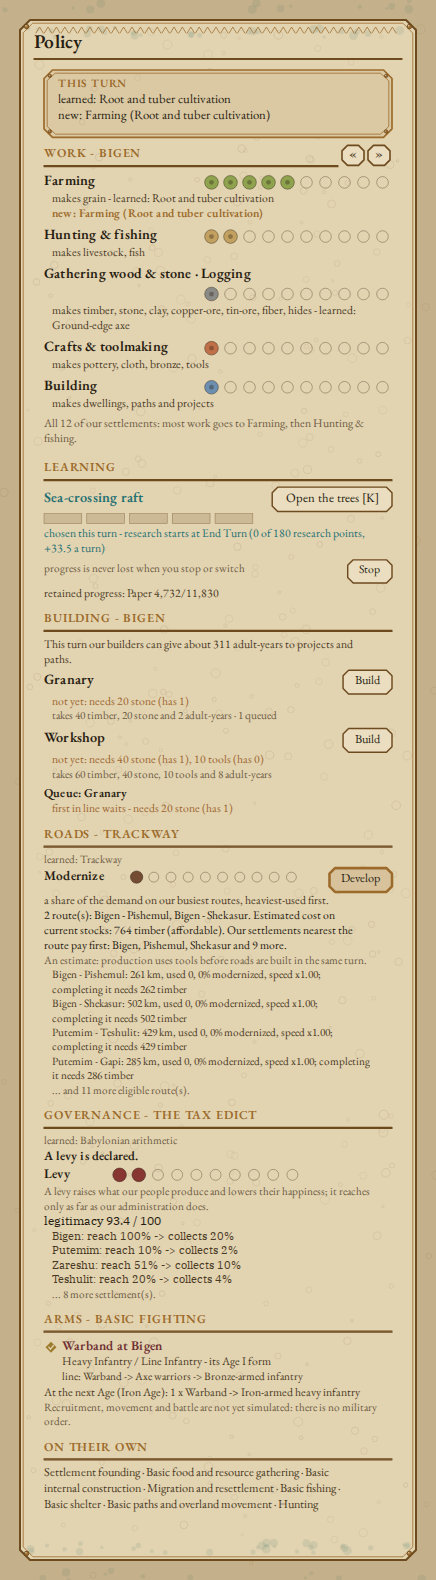
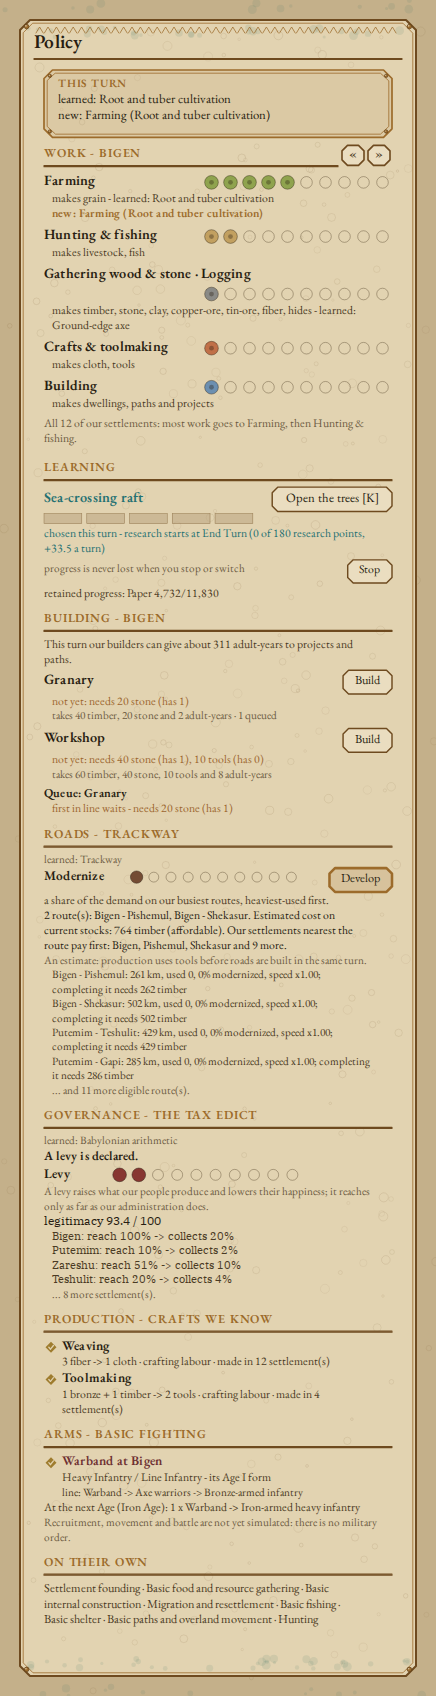
docs(r1): coherence-matrix §5 and current-state entry; re-rendered action-surface previews (researched rig added)
Claude-Session: https://claude.ai/code/session_01MdgpcnPgQAkk63mHFvEsdo

Changed region(s): [[0.0596, 0.0, 0.9541, 0.9924], [0.8647, 0.2171, 0.8945, 0.2481]]

diff --git a/docs/m5-integration-coherence-matrix.md b/docs/m5-integration-coherence-matrix.md
@@ -90,3 +90,30 @@ Legend as in the audit; **FIXED** cites the commit; **REMAINS** is an open gap o
 11. **A1 yield = cereal yield (CR-006)** — the founding food activity yields at the cereal rate.
 12. Also still open from the audit: AI labour decisions [E3]; claims/recognitions/notables have no
     writer [E20]; Age-eligibility table read only by the schema [E30]; harvest weather invisible [E34].
+
+## 5. R1 — research trees drive gameplay (append-only, 2026-10-03)
+
+**Branch:** `m5i-r1-unlock-pipeline` (cut from `m5-integration` @ `ac13c3d`; measured at `c62c594` + this record). Not merged.
+
+- **Recipes [E15] — FIXED.** `research.json` entity kind `recipe`: `recipe.pottery_firing` requires `pottery_open_fired`,
+  `recipe.bronze_casting` requires `tin_bronze`; `recipe.weaving` and `recipe.toolmaking` are declared baseline (null
+  requirement — ownership matrix class A; Director decision recorded in the audit). goods.json recipes link the entity;
+  `CraftingQuery.IsRecipeAvailable` (controller knowledge + the artisan latch) is the one predicate ProductionSystem,
+  LabourActivities and AvailableActionsQuery call. M3a row: eligibility now research-gated.
+- **Action surface.** New `Production` domain (crafts known, generic over goods.json); university founding (the
+  Institutions domain, previously never rendered) joins the build block; notices announce each newly researched action.
+- **Audit.** `docs/research-gameplay-unlock-audit.md` (script + CI `--check`): 431 nodes classified A–J; 115 deferred
+  entities (units M6; buildings, infrastructure and institutions with no realizing system); 2 baseline-claim findings
+  (weaving, toolmaking) left to the Director.
+- **Goldens (MEASURED).** founded `74306d6a…` → `68c629b6…` (ci.yml FOUNDED_GOLDEN moved; two CLI processes agree);
+  driven `65d53a01…` → `7aa20e40…`; FirstReign `481d3717…` → `158bdd4c…`. Recipe-knowledge attribution control: the
+  content twin without the recipe links returns every old pin byte for byte.
+- **Behaviour (MEASURED).** The order-free founded world now trades NOTHING in 300 turns (first trade was turn 28) and,
+  in 650 turns, no merchant town emerges (was turn 119) — crafted goods and the trade economy now wait on research.
+  Calibration battery green; autoplay 4 seeds × 650: every gated corridor in band; the two quarantined corridors move
+  slightly (density breach 3.91 % → 3.62 %, migration 74.12 % → 74.16 %); final populations within 0.3 %.
+- **Suites (MEASURED, Release).** Sim.Tests 1396 / 0 / 5; Sim.Ui.Tests 472 / 0 / 0; banned constructs, read isolation,
+  read-only proof, research content audit, calibration report and the unlock audit `--check` exit 0; ci.yml
+  determinism-xproc (incl. the aiEmpires = 1 leg: 187 orders, kinds 3–8, inspect VERIFIED 601 turns) passes locally.
+- **Remains.** Weaving/toolmaking gating (Director); 115 deferred entities; order-free world has no trade until research
+  (a consequence, reported for a ruling, not retuned).

diff --git a/docs/current-state.md b/docs/current-state.md
@@ -198,6 +198,13 @@
 > defect: a mid-game colony's orders made replay/`sim inspect` throw (`7100c77`). Not on `main`, not
 > ruled: everything in this entry. Verify against git.
 
+> **2026-10-03 — R1 (research trees drive gameplay) on `m5i-r1-unlock-pipeline`, cut from `m5-integration` @ `ac13c3d`;
+> NOT merged, NOT on `main`.** Crafting recipes research-gated by content-declared recipe entities (pottery firing,
+> bronze casting); Production domain on the action surface; full-corpus unlock audit
[1 lines of base64/hex data omitted]
+> Suite MEASURED in Release: Sim.Tests 1396 / 0 / 5, Sim.Ui.Tests 472 / 0 / 0. Record:
+> `docs/m5-integration-coherence-matrix.md` §5. Verify against git.
+
 **Read this first, then verify it.** This file exists so an agent entering the repository with zero
 conversation context can work out what to read next. It is a ROUTER and a STATUS BOARD. It is not
 the Spine, not a milestone spec, not a D-decision, not an ADR, and it never restates one — where a
